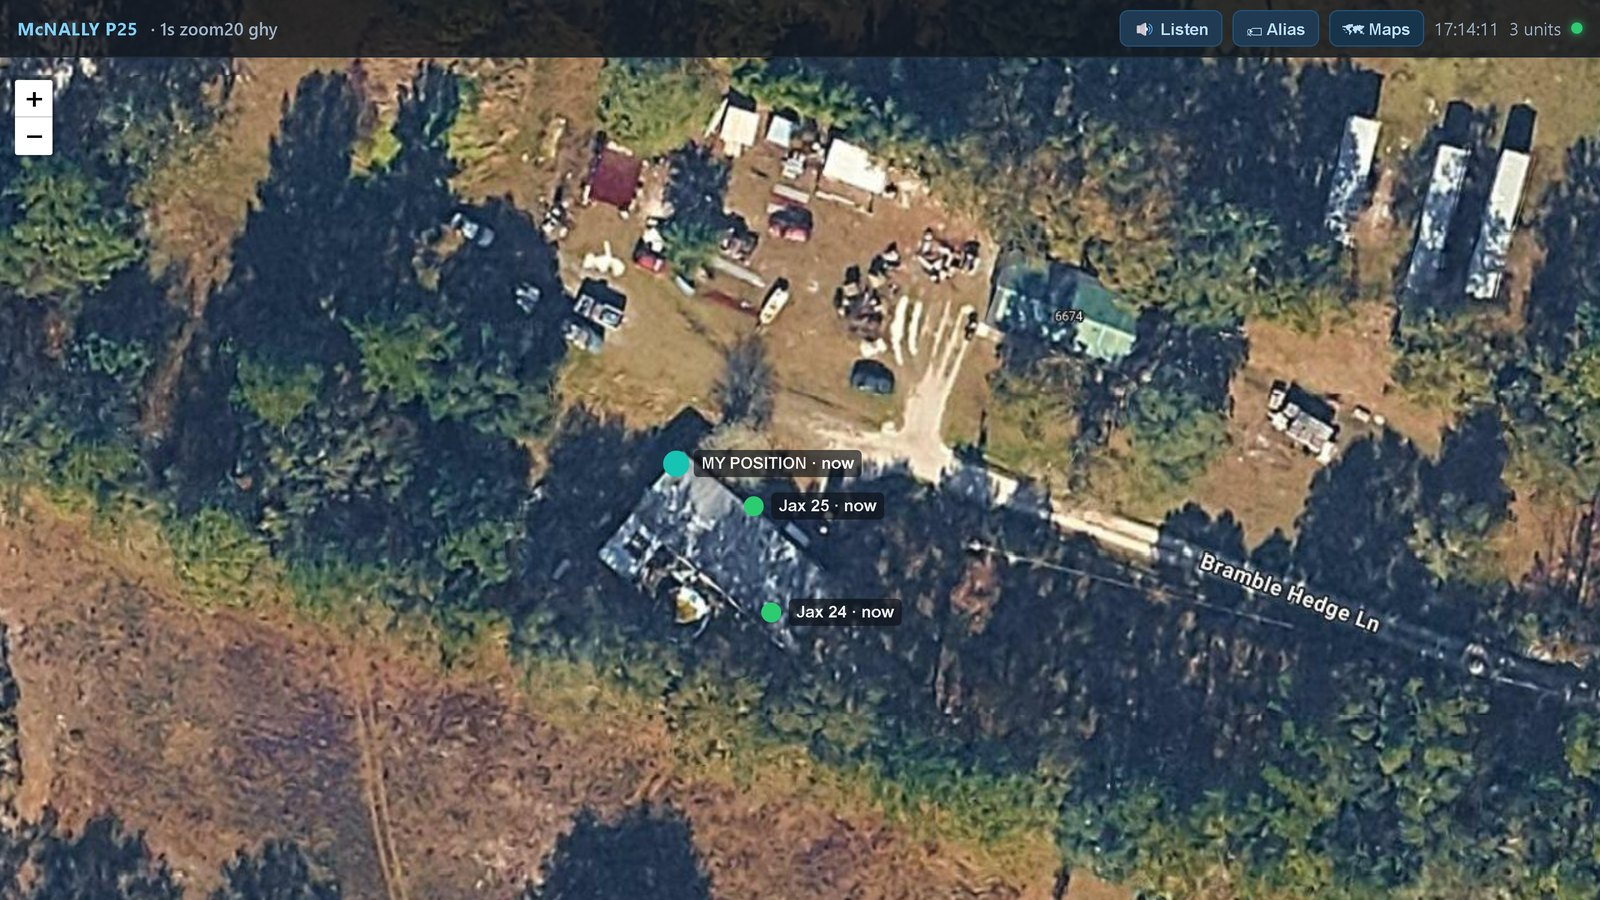
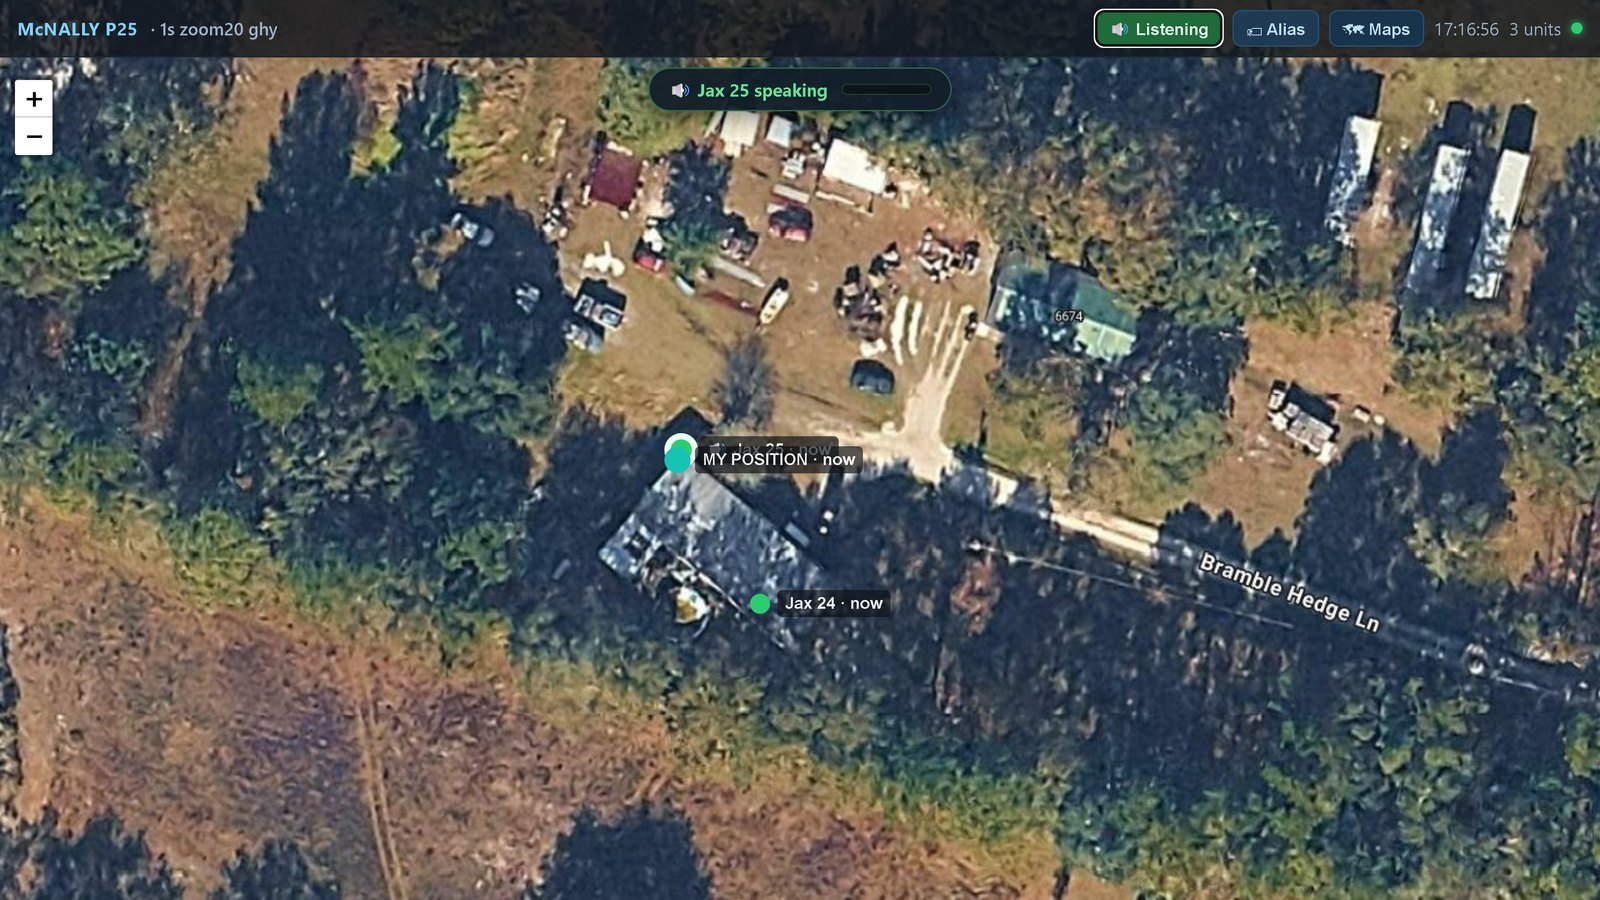
Hero shot: swap in the speaker-active live run (Listening + CURRENT SPEAKER)
Replaces the quiet Z20 shot with Jim's live combo-platter frame -- Listening
active, 'Jax 25 speaking' panel up, that unit ringed on the map. Shows the voice
feature that sets this apart. Captions (site + README) updated to match.

Claude-Session: https://claude.ai/code/session_01MnLGTHyhGnworHWEFuwHD3

diff --git a/site/index.html b/site/index.html
@@ -125,8 +125,8 @@ footer .ln{margin-top:10px;display:flex;flex-wrap:wrap;gap:8px 18px}
 <section class="showcase">
   <div class="wrap">
     <figure>
-      <img src="images/live_z20.jpg" alt="The live receiver — three P25 units (MY POSITION plus two named fleet units) plotted on Z20 offline satellite imagery, with Listen, Alias and Maps controls in the bar.">
-      <figcaption>Live, off the air — your own position and the fleet on your own Z20 imagery. Tap <b>Listen</b> to hear whoever keys up.</figcaption>
+      <img src="images/live_z20.jpg" alt="The live receiver in action — Listening active, a 'Jax 25 speaking' current-speaker panel at the top, that unit ringed on the map, three units on Z20 offline satellite imagery.">
+      <figcaption>Live, off the air — and you can hear it: the current speaker named and lit while your own position and the fleet ride your own Z20 imagery.</figcaption>
     </figure>
   </div>
 </section>

diff --git a/README.md b/README.md
@@ -11,8 +11,8 @@ No SDR. No base station. No internet, no cell, no cloud. No special dongle, no p
 - **⬇ Download:** [`Claude_McNally_P25_Receiver_v1.3.zip`](Claude_McNally_P25_Receiver_v1.3.zip)
 - **📖 User guide:** [`Claude McNally P25 Receiver v1.3/Claude McNally P25 Receiver User Guide.pdf`](Claude%20McNally%20P25%20Receiver%20v1.3/Claude%20McNally%20P25%20Receiver%20User%20Guide.pdf)
 
-![The live receiver — three P25 units (your own position plus two named fleet units) plotted on Z20 offline satellite imagery, with Listen, Alias and Maps controls](images/live_z20.jpg)
-*Live, off the air: your own position and the fleet on your own Z20 imagery — tap **Listen** to hear whoever keys up.*
+![The live receiver in action — Listening active, the current speaker (Jax 25) named and ringed on the map, three units on Z20 offline imagery](images/live_z20.jpg)
+*Live, off the air — and you can hear it: the current speaker named and lit while your own position and the fleet ride your own Z20 imagery.*
 
 ---
 
